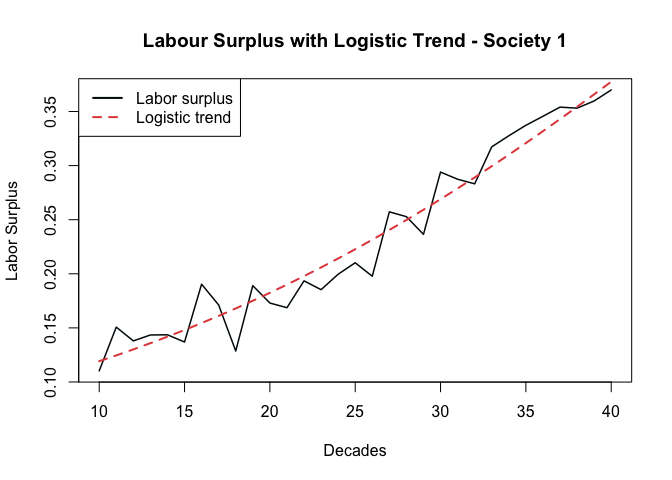
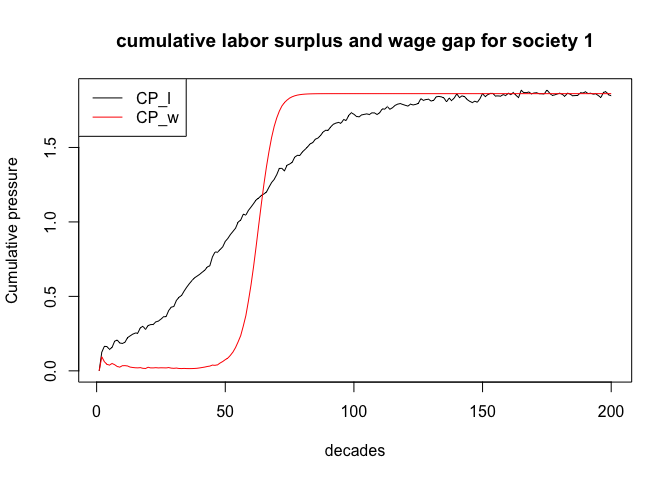
fix functions

diff --git a/wage_lab.md b/wage_lab.md
@@ -122,19 +122,24 @@ labor\_surplus (t) = \frac{K_l}{1+e^{-r_l(t-t_{0,l})}} + A e^{{-\delta_l}t}\cdot
 $$
 
 ``` r
-for (n in 1:N_pilot) {
-  for (t in 1:T_pilot) {
+func_labor_surplus <- function(N,T) {
+  
+  for (n in 1:N) {
+    for (t in 1:T) {
     
-    logistic_trend <- K_l/(1+exp(-r_l*(t-t0_l)))
-    oscillation <- A * exp(-delta_l*t) * sin((2*t*pi)/P)
-    epsilon <- rnorm(1, mean = 0, sd = .02)
+      logistic_trend <- K_l/(1+exp(-r_l*(t-t0_l)))
+      oscillation <- A * exp(-delta_l*t) * sin((2*t*pi)/P)
+      epsilon <- rnorm(1, mean = 0, sd = .02)
     
-    labor_surplus[t, n] <- logistic_trend + oscillation + epsilon
+      labor_surplus[t, n] <- logistic_trend + oscillation + epsilon
+    }
   }
+  return(labor_surplus)
 }
 ```
 
 ``` r
+labor_surplus <- func_labor_surplus(N_pilot, T_pilot)
 head(labor_surplus)
 ```
 
@@ -165,17 +170,21 @@ r_w = r_{base,w} + \alpha(labor\_surplus_{t-1})
 $$
 
 ``` r
-for (n in 1:N_pilot) {
-  for (t in 1:T_pilot) {
+func_wage_gap <- function(N, T){
+  for (n in 1:N) {
+    for (t in 1:T) {
     
-    if (t == 1) {r_w <- r_base} else {r_w <- r_base + alpha*(labor_surplus[t-1, n])}
+      if (t == 1) {r_w <- r_base} else {r_w <- r_base + alpha*(labor_surplus[t-1, n])}
     
-    wage_gap[t,n]<- K_w/(1+exp(-r_w*(t-t0_w)))
+     wage_gap[t,n]<- K_w/(1+exp(-r_w*(t-t0_w)))
+    }
   }
+  return(wage_gap)
 }
 ```
 
 ``` r
+wage_gap <- func_wage_gap(N_pilot, T_pilot)
 head(wage_gap)
 ```
 
@@ -214,29 +223,38 @@ CP\_W(t) = \sum^{t-1}_{k} W_{t-k}\cdot e^{-\delta_c\cdot k}
 $$
 
 ``` r
-for (n in 1:N_pilot){
-  for (t in 1:T_pilot){
+cp <- function(N, T) {
+  for (n in 1:N){
+    for (t in 1:T){
     
     # cumulative pressure is only meaningful at t=2
-    if (t==1){
-      CP_l[t, n] <- 0
-      CP_w[t, n] <- 0
-    }
-    else {
+      if (t==1){
+        CP_l[t, n] <- 0
+        CP_w[t, n] <- 0
+      }
+      else {
       
-      cpsum_l <- 0
-      cpsum_w <- 0
+        cpsum_l <- 0
+        cpsum_w <- 0
       
-      for (k in 1:(t-1)){
-        cpsum_l <- cpsum_l + labor_surplus[t-k, n] * exp(-delta_c*k)
-        cpsum_w <- cpsum_w + wage_gap[t-k, n] * exp(-delta_c*k)
+        for (k in 1:(t-1)){
+          cpsum_l <- cpsum_l + labor_surplus[t-k, n] * exp(-delta_c*k)
+          cpsum_w <- cpsum_w + wage_gap[t-k, n] * exp(-delta_c*k)
       }
       
-      CP_l[t, n] <- cpsum_l
-      CP_w[t, n] <- cpsum_w
+        CP_l[t, n] <- cpsum_l
+        CP_w[t, n] <- cpsum_w
+      }
     }
   }
-  }
+  return( list(CP_l = CP_l, CP_w = CP_w) )
+}
+```
+
+``` r
+result <- cp(N_pilot, T_pilot)
+CP_w <- result$CP_w
+CP_l <- result$CP_l
 ```
 
 ``` r
@@ -289,7 +307,7 @@ lines(1:T_pilot, CP_w[,1],col ="red")
 legend("topleft", legend = c("CP_l", "CP_w"), col = c("black", "red"), lty = 1)
 ```
 
-![](wage_lab_files/figure-gfm/unnamed-chunk-14-1.png)<!-- -->
+![](wage_lab_files/figure-gfm/unnamed-chunk-15-1.png)<!-- -->
 
 **Phases of the labor surplus:**
 
@@ -341,7 +359,7 @@ legend("topleft",
        lty = c(1, 2, 1, 1), lwd = 2)
 ```
 
-![](wage_lab_files/figure-gfm/unnamed-chunk-15-1.png)<!-- -->
+![](wage_lab_files/figure-gfm/unnamed-chunk-16-1.png)<!-- -->
 
 The plot below represent the Phase 2 and Phase 3 of the labor surplus
 from decade 10 to decade 40. The dotted line is the **logistic trend**:
